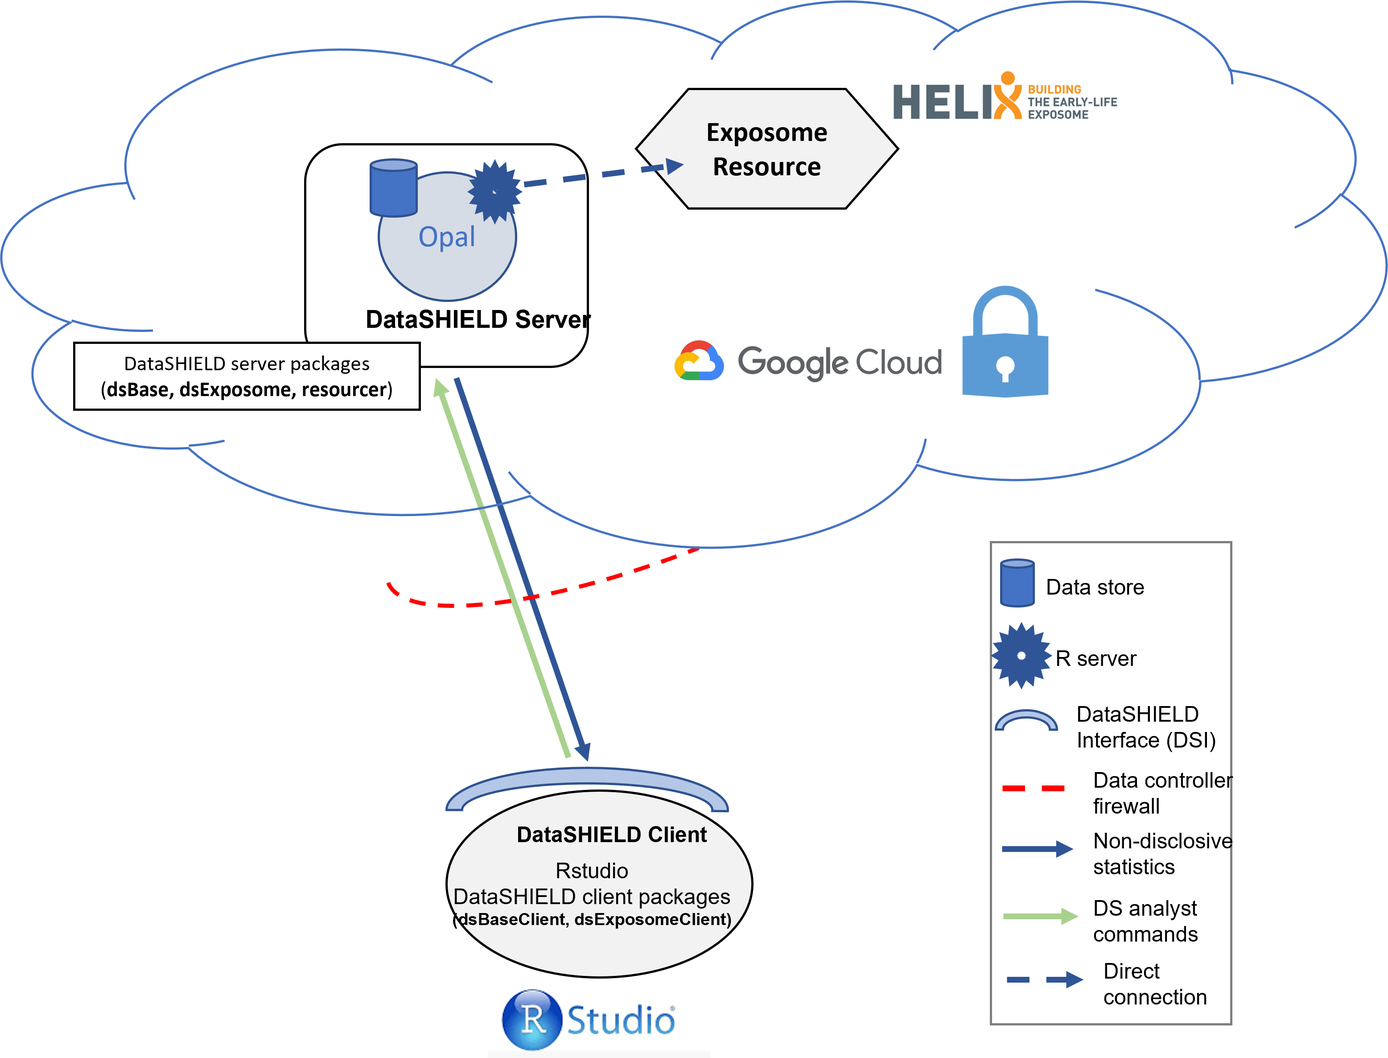
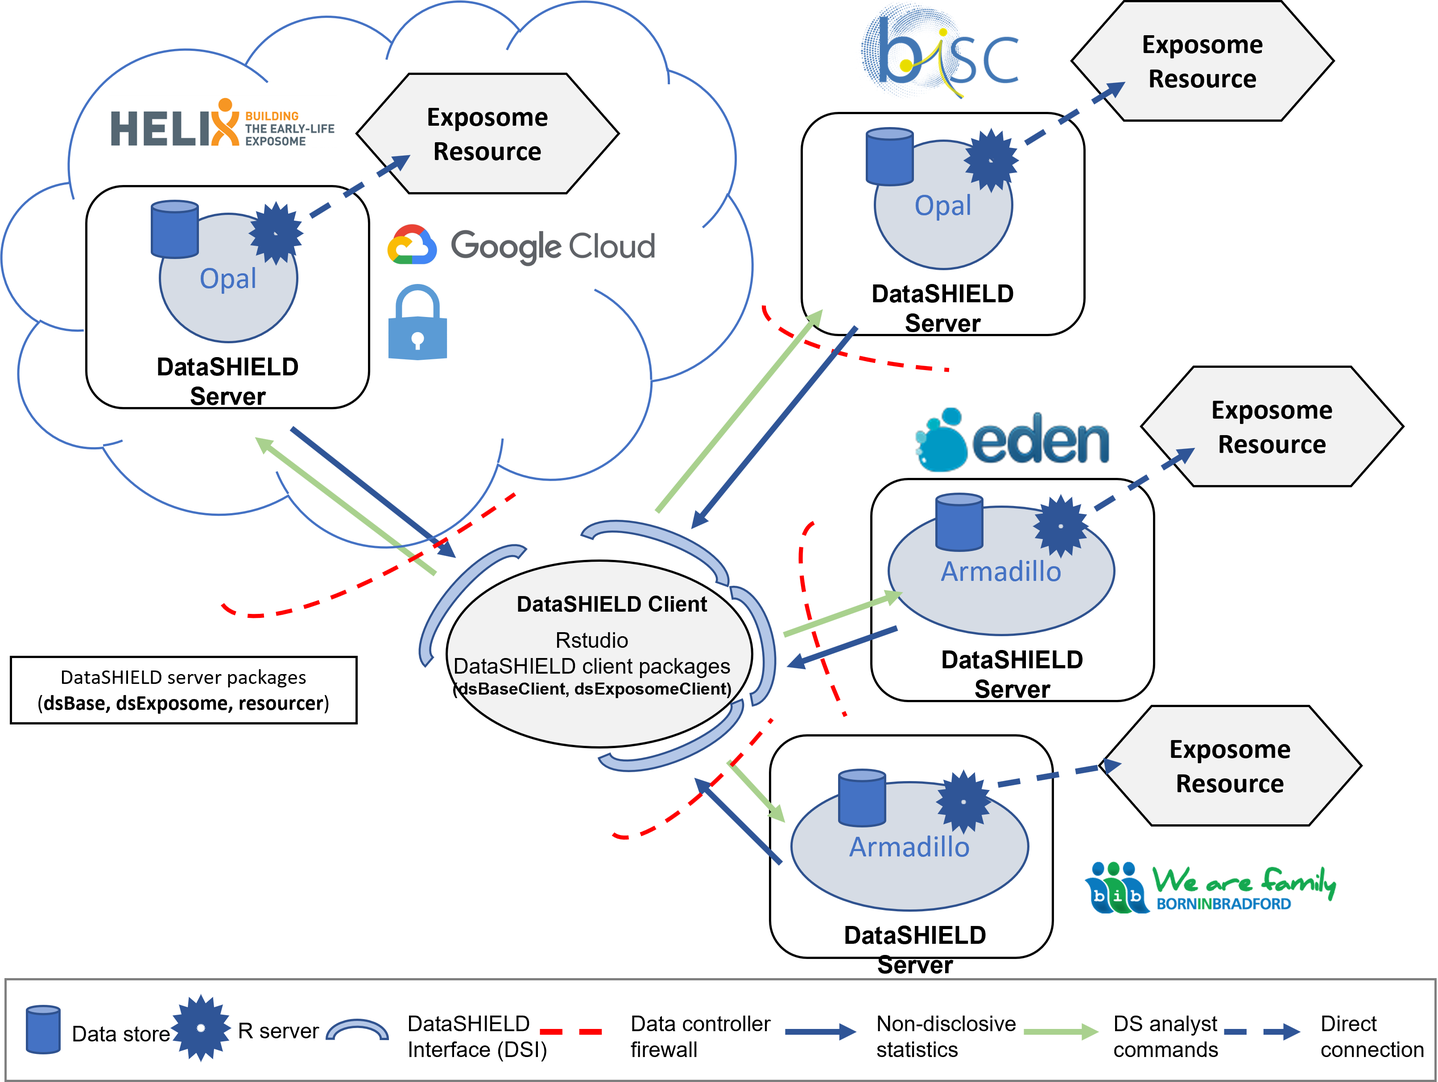
docs: new figure

diff --git a/docs/index.html b/docs/index.html
@@ -110,7 +110,8 @@ code span.wa { color: #60a0b0; font-weight: bold; font-style: italic; } /* Warni
     <h2 id="toc-title">Table of contents</h2>
    
   <ul>
-  <li><a href="#meet-google-cloud" id="toc-meet-google-cloud" class="nav-link active" data-scroll-target="#meet-google-cloud">Meet Google Cloud</a></li>
+  <li><a href="#computing-issues-when-using-datashield-in-large-consortia" id="toc-computing-issues-when-using-datashield-in-large-consortia" class="nav-link active" data-scroll-target="#computing-issues-when-using-datashield-in-large-consortia">Computing issues when using DataSHIELD in large consortia</a></li>
+  <li><a href="#meet-google-cloud" id="toc-meet-google-cloud" class="nav-link" data-scroll-target="#meet-google-cloud">Meet Google Cloud</a></li>
   <li><a href="#infrastructure" id="toc-infrastructure" class="nav-link" data-scroll-target="#infrastructure">Infrastructure</a></li>
   <li><a href="#exposome-analysis" id="toc-exposome-analysis" class="nav-link" data-scroll-target="#exposome-analysis">Exposome analysis</a>
   <ul class="collapse">
@@ -161,6 +162,25 @@ code span.wa { color: #60a0b0; font-weight: bold; font-style: italic; } /* Warni
 
 </header>
 
+<section id="computing-issues-when-using-datashield-in-large-consortia" class="level2">
+<h2 class="anchored" data-anchor-id="computing-issues-when-using-datashield-in-large-consortia">Computing issues when using DataSHIELD in large consortia</h2>
+<p>DataSHIELD is a technical solution for analyzing sensitive or confidential data in a federated manner, where data remains in the control of the original data holders and is not centralized or shared. One of the main problems with using DataSHIELD in large projects is the limited computing capacities of the individual data holders. Since the data is not centralized, the analysis must be performed on each site separately and then non-disclosive results are combined. This can lead to longer analysis times and increased computational burden on the individual sites, which may not have the same level of computing resources. Additionally, the data holders may have different technical capabilities, which can make it difficult to standardize the analysis across sites and ensure that the results are comparable. Furthermore, the security and privacy concerns around sensitive data can make it difficult to share data across sites, which can limit the ability to perform advanced or complex analysis.</p>
+<p>In this report we provide a possible solution using Google Cloud which is a suite of cloud computing services offered by Google that provides a variety of tools and resources for businesses and organizations. The services include infrastructure as a service (IaaS), platform as a service (PaaS), and software as a service (SaaS) offerings. The IaaS component of Google Cloud, called Google Compute Engine, allows users to rent virtual machines on which to run their own applications.</p>
+<p>Google Cloud also provides a variety of security and compliance features to help protect user’s data and applications which is one of the main concerns of researchers for using this solution. Importantly, Google Cloud is compliant with the General Data Protection Regulation (GDPR) and takes a number of steps and features to ensure the security of user data.These include:</p>
+<pre><code> - Data processing agreements (DPAs) that outline how Google Cloud processes customer data in compliance with GDPR
+ - Data protection impact assessments (DPIAs) that help customers identify and mitigate data protection risks
+ - Tools for managing user consent and data subject rights, such as the ability to delete or export personal data
+ - Transparency reports that provide information on data requests from government and other third parties.</code></pre>
+<p>In terms of security, Google Cloud has a number of measures in place to protect user data. These include:</p>
+<pre><code> - Encryption of data in transit and at rest
+ - Regular security assessments and penetration testing to identify and address vulnerabilities
+ - Access controls and authentication to ensure that only authorized users can access data
+ - Network security to protect against external threats
+ - A dedicated security team that monitors for and responds to potential security incidents.
+ - Google Cloud is also SOC2, ISO 27001, and PCI DSS certified, which are internationally recognized standards for information security management. Furthermore, it also provides a variety of tools and services to help customers manage their own security, such as security key management service, Cloud Security Command Center, and Cloud Identity-Aware Proxy.</code></pre>
+<p>More details about Google Cloud Compliance (also specific for countries) can be found <a href="https://cloud.google.com/security/compliance">here</a>.</p>
+<p>All the above mentioned features make possible to evaluate the possibility of using Google Cloud within <a href="https://athleteproject.eu/">ATHLETE project</a> for some cohorts to overcome their existing computing problems. In order to illustrate how we can set up ATHLETE’s infrastructure, next we describe an infrastructure we set up using data from <a href="http://www.projecthelix.eu/es">HELIX project</a> in which each cohort was consider as a different cohort.</p>
+</section>
 <section id="meet-google-cloud" class="level2">
 <h2 class="anchored" data-anchor-id="meet-google-cloud">Meet Google Cloud</h2>
 <p><a href="cloud.google.com">Google Cloud</a> is a cloud-based computing platform that offers a wide variety of services. For this demonstration, we have spined-up a simple <code>Compute Engine</code> with <code>debian-11-bullseye-v20221206</code> and <code>docker 20.10.22</code>.</p>
@@ -182,47 +202,47 @@ code span.wa { color: #60a0b0; font-weight: bold; font-style: italic; } /* Warni
 <p>The first step is to login to the server. You can see that we are connecting to a fixed IP (<code>35.219.173.160</code>). It is good to remark that it is <strong>fixed</strong>, so that if we try to login after two months the address will still work, typically we are assigned dynamic IPs that change over time. Google Cloud is able to provide fixed IPs with just the click of a button, making it easier for the IT departments to provide a DNS (i.e.&nbsp;to be able to use <code>opal.isglobal.org</code> instead of an IP).</p>
 <p>We have created a test user with DataSHIELD access to the server.</p>
 <div class="cell" data-hash="dsexposome-demo_cache/html/unnamed-chunk-1_68f6308a660549c5a275ce664728512d">
-<div class="sourceCode cell-code" id="cb1"><pre class="sourceCode r code-with-copy"><code class="sourceCode r"><span id="cb1-1"><a href="#cb1-1" aria-hidden="true" tabindex="-1"></a><span class="fu">require</span>(<span class="st">'DSI'</span>)</span>
-<span id="cb1-2"><a href="#cb1-2" aria-hidden="true" tabindex="-1"></a><span class="fu">require</span>(<span class="st">'DSOpal'</span>)</span>
-<span id="cb1-3"><a href="#cb1-3" aria-hidden="true" tabindex="-1"></a><span class="fu">require</span>(<span class="st">'dsBaseClient'</span>)</span>
-<span id="cb1-4"><a href="#cb1-4" aria-hidden="true" tabindex="-1"></a><span class="fu">require</span>(<span class="st">'dsExposomeClient'</span>)</span>
-<span id="cb1-5"><a href="#cb1-5" aria-hidden="true" tabindex="-1"></a></span>
-<span id="cb1-6"><a href="#cb1-6" aria-hidden="true" tabindex="-1"></a>user <span class="ot">&lt;-</span> <span class="st">"test"</span></span>
-<span id="cb1-7"><a href="#cb1-7" aria-hidden="true" tabindex="-1"></a>pass <span class="ot">&lt;-</span> <span class="st">"Testtest1!"</span></span>
-<span id="cb1-8"><a href="#cb1-8" aria-hidden="true" tabindex="-1"></a></span>
-<span id="cb1-9"><a href="#cb1-9" aria-hidden="true" tabindex="-1"></a><span class="fu">library</span>(httr);<span class="fu">set_config</span>(<span class="fu">config</span>(<span class="at">ssl_verifypeer =</span> 0L))</span>
-<span id="cb1-10"><a href="#cb1-10" aria-hidden="true" tabindex="-1"></a></span>
-<span id="cb1-11"><a href="#cb1-11" aria-hidden="true" tabindex="-1"></a>builder <span class="ot">&lt;-</span> DSI<span class="sc">::</span><span class="fu">newDSLoginBuilder</span>()</span>
-<span id="cb1-12"><a href="#cb1-12" aria-hidden="true" tabindex="-1"></a>builder<span class="sc">$</span><span class="fu">append</span>(<span class="at">server =</span> <span class="st">'server1'</span>, </span>
-<span id="cb1-13"><a href="#cb1-13" aria-hidden="true" tabindex="-1"></a>               <span class="at">url =</span> <span class="st">"https://35.219.173.160/repo"</span>,</span>
-<span id="cb1-14"><a href="#cb1-14" aria-hidden="true" tabindex="-1"></a>               <span class="at">user =</span> user, </span>
-<span id="cb1-15"><a href="#cb1-15" aria-hidden="true" tabindex="-1"></a>               <span class="at">password =</span> pass, </span>
-<span id="cb1-16"><a href="#cb1-16" aria-hidden="true" tabindex="-1"></a>               <span class="at">profile =</span> <span class="st">"default"</span>)</span>
-<span id="cb1-17"><a href="#cb1-17" aria-hidden="true" tabindex="-1"></a>logindata <span class="ot">&lt;-</span> builder<span class="sc">$</span><span class="fu">build</span>()</span>
-<span id="cb1-18"><a href="#cb1-18" aria-hidden="true" tabindex="-1"></a>conns <span class="ot">&lt;-</span> DSI<span class="sc">::</span><span class="fu">datashield.login</span>(<span class="at">logins =</span> logindata, <span class="at">assign =</span> F)</span></code><button title="Copy to Clipboard" class="code-copy-button"><i class="bi"></i></button></pre></div>
+<div class="sourceCode cell-code" id="cb3"><pre class="sourceCode r code-with-copy"><code class="sourceCode r"><span id="cb3-1"><a href="#cb3-1" aria-hidden="true" tabindex="-1"></a><span class="fu">require</span>(<span class="st">'DSI'</span>)</span>
+<span id="cb3-2"><a href="#cb3-2" aria-hidden="true" tabindex="-1"></a><span class="fu">require</span>(<span class="st">'DSOpal'</span>)</span>
+<span id="cb3-3"><a href="#cb3-3" aria-hidden="true" tabindex="-1"></a><span class="fu">require</span>(<span class="st">'dsBaseClient'</span>)</span>
+<span id="cb3-4"><a href="#cb3-4" aria-hidden="true" tabindex="-1"></a><span class="fu">require</span>(<span class="st">'dsExposomeClient'</span>)</span>
+<span id="cb3-5"><a href="#cb3-5" aria-hidden="true" tabindex="-1"></a></span>
+<span id="cb3-6"><a href="#cb3-6" aria-hidden="true" tabindex="-1"></a>user <span class="ot">&lt;-</span> <span class="st">"test"</span></span>
+<span id="cb3-7"><a href="#cb3-7" aria-hidden="true" tabindex="-1"></a>pass <span class="ot">&lt;-</span> <span class="st">"Testtest1!"</span></span>
+<span id="cb3-8"><a href="#cb3-8" aria-hidden="true" tabindex="-1"></a></span>
+<span id="cb3-9"><a href="#cb3-9" aria-hidden="true" tabindex="-1"></a><span class="fu">library</span>(httr);<span class="fu">set_config</span>(<span class="fu">config</span>(<span class="at">ssl_verifypeer =</span> 0L))</span>
+<span id="cb3-10"><a href="#cb3-10" aria-hidden="true" tabindex="-1"></a></span>
+<span id="cb3-11"><a href="#cb3-11" aria-hidden="true" tabindex="-1"></a>builder <span class="ot">&lt;-</span> DSI<span class="sc">::</span><span class="fu">newDSLoginBuilder</span>()</span>
+<span id="cb3-12"><a href="#cb3-12" aria-hidden="true" tabindex="-1"></a>builder<span class="sc">$</span><span class="fu">append</span>(<span class="at">server =</span> <span class="st">'server1'</span>, </span>
+<span id="cb3-13"><a href="#cb3-13" aria-hidden="true" tabindex="-1"></a>               <span class="at">url =</span> <span class="st">"https://35.219.173.160/repo"</span>,</span>
+<span id="cb3-14"><a href="#cb3-14" aria-hidden="true" tabindex="-1"></a>               <span class="at">user =</span> user, </span>
+<span id="cb3-15"><a href="#cb3-15" aria-hidden="true" tabindex="-1"></a>               <span class="at">password =</span> pass, </span>
+<span id="cb3-16"><a href="#cb3-16" aria-hidden="true" tabindex="-1"></a>               <span class="at">profile =</span> <span class="st">"default"</span>)</span>
+<span id="cb3-17"><a href="#cb3-17" aria-hidden="true" tabindex="-1"></a>logindata <span class="ot">&lt;-</span> builder<span class="sc">$</span><span class="fu">build</span>()</span>
+<span id="cb3-18"><a href="#cb3-18" aria-hidden="true" tabindex="-1"></a>conns <span class="ot">&lt;-</span> DSI<span class="sc">::</span><span class="fu">datashield.login</span>(<span class="at">logins =</span> logindata, <span class="at">assign =</span> F)</span></code><button title="Copy to Clipboard" class="code-copy-button"><i class="bi"></i></button></pre></div>
 </div>
 </section>
 <section id="assigning-the-resource" class="level3">
 <h3 class="anchored" data-anchor-id="assigning-the-resource">Assigning the resource</h3>
-<p>Now that we have successfully connected to the server, we just have to specify which data to load in order to analize it.</p>
+<p>Now that we have successfully connected to the server, we just have to specify which data to load in order to analyze it.</p>
 <div class="cell" data-hash="dsexposome-demo_cache/html/unnamed-chunk-2_23205d2bb5b0bde6a170fca3975519a8">
-<div class="sourceCode cell-code" id="cb2"><pre class="sourceCode r code-with-copy"><code class="sourceCode r"><span id="cb2-1"><a href="#cb2-1" aria-hidden="true" tabindex="-1"></a><span class="fu">datashield.assign.resource</span>(</span>
-<span id="cb2-2"><a href="#cb2-2" aria-hidden="true" tabindex="-1"></a>  conns, </span>
-<span id="cb2-3"><a href="#cb2-3" aria-hidden="true" tabindex="-1"></a>  <span class="at">symbol =</span> <span class="st">'exposome_resource'</span>, </span>
-<span id="cb2-4"><a href="#cb2-4" aria-hidden="true" tabindex="-1"></a>  <span class="at">resource =</span> <span class="fu">list</span>(<span class="at">server1 =</span> <span class="st">'EXPOSOME.exposomeSet'</span>)</span>
-<span id="cb2-5"><a href="#cb2-5" aria-hidden="true" tabindex="-1"></a>)</span>
-<span id="cb2-6"><a href="#cb2-6" aria-hidden="true" tabindex="-1"></a><span class="fu">ds.class</span>(<span class="st">"exposome_resource"</span>)</span></code><button title="Copy to Clipboard" class="code-copy-button"><i class="bi"></i></button></pre></div>
+<div class="sourceCode cell-code" id="cb4"><pre class="sourceCode r code-with-copy"><code class="sourceCode r"><span id="cb4-1"><a href="#cb4-1" aria-hidden="true" tabindex="-1"></a><span class="fu">datashield.assign.resource</span>(</span>
+<span id="cb4-2"><a href="#cb4-2" aria-hidden="true" tabindex="-1"></a>  conns, </span>
+<span id="cb4-3"><a href="#cb4-3" aria-hidden="true" tabindex="-1"></a>  <span class="at">symbol =</span> <span class="st">'exposome_resource'</span>, </span>
+<span id="cb4-4"><a href="#cb4-4" aria-hidden="true" tabindex="-1"></a>  <span class="at">resource =</span> <span class="fu">list</span>(<span class="at">server1 =</span> <span class="st">'EXPOSOME.exposomeSet'</span>)</span>
+<span id="cb4-5"><a href="#cb4-5" aria-hidden="true" tabindex="-1"></a>)</span>
+<span id="cb4-6"><a href="#cb4-6" aria-hidden="true" tabindex="-1"></a><span class="fu">ds.class</span>(<span class="st">"exposome_resource"</span>)</span></code><button title="Copy to Clipboard" class="code-copy-button"><i class="bi"></i></button></pre></div>
 <div class="cell-output cell-output-stdout">
 <pre><code>$server1
 [1] "RDataFileResourceClient" "FileResourceClient"     
 [3] "ResourceClient"          "R6"                     </code></pre>
 </div>
-<div class="sourceCode cell-code" id="cb4"><pre class="sourceCode r code-with-copy"><code class="sourceCode r"><span id="cb4-1"><a href="#cb4-1" aria-hidden="true" tabindex="-1"></a><span class="fu">datashield.assign.expr</span>(</span>
-<span id="cb4-2"><a href="#cb4-2" aria-hidden="true" tabindex="-1"></a>  conns, </span>
-<span id="cb4-3"><a href="#cb4-3" aria-hidden="true" tabindex="-1"></a>  <span class="at">symbol =</span> <span class="st">"exposome_resource"</span>, </span>
-<span id="cb4-4"><a href="#cb4-4" aria-hidden="true" tabindex="-1"></a>  <span class="at">expr =</span> <span class="fu">quote</span>(<span class="fu">as.resource.object</span>(exposome_resource))</span>
-<span id="cb4-5"><a href="#cb4-5" aria-hidden="true" tabindex="-1"></a>)</span>
-<span id="cb4-6"><a href="#cb4-6" aria-hidden="true" tabindex="-1"></a><span class="fu">ds.class</span>(<span class="st">"exposome_resource"</span>)</span></code><button title="Copy to Clipboard" class="code-copy-button"><i class="bi"></i></button></pre></div>
+<div class="sourceCode cell-code" id="cb6"><pre class="sourceCode r code-with-copy"><code class="sourceCode r"><span id="cb6-1"><a href="#cb6-1" aria-hidden="true" tabindex="-1"></a><span class="fu">datashield.assign.expr</span>(</span>
+<span id="cb6-2"><a href="#cb6-2" aria-hidden="true" tabindex="-1"></a>  conns, </span>
+<span id="cb6-3"><a href="#cb6-3" aria-hidden="true" tabindex="-1"></a>  <span class="at">symbol =</span> <span class="st">"exposome_resource"</span>, </span>
+<span id="cb6-4"><a href="#cb6-4" aria-hidden="true" tabindex="-1"></a>  <span class="at">expr =</span> <span class="fu">quote</span>(<span class="fu">as.resource.object</span>(exposome_resource))</span>
+<span id="cb6-5"><a href="#cb6-5" aria-hidden="true" tabindex="-1"></a>)</span>
+<span id="cb6-6"><a href="#cb6-6" aria-hidden="true" tabindex="-1"></a><span class="fu">ds.class</span>(<span class="st">"exposome_resource"</span>)</span></code><button title="Copy to Clipboard" class="code-copy-button"><i class="bi"></i></button></pre></div>
 <div class="cell-output cell-output-stdout">
 <pre><code>$server1
 [1] "ExposomeSet"
@@ -235,7 +255,7 @@ attr(,"package")
 <h3 class="anchored" data-anchor-id="working-with-the-data">Working with the data</h3>
 <p>Finally, we are ready to start analyzing. Here we can see the summary of one variable of the Exposome.</p>
 <div class="cell" data-hash="dsexposome-demo_cache/html/unnamed-chunk-3_242432b0c12753ee903fe628678bca82">
-<div class="sourceCode cell-code" id="cb6"><pre class="sourceCode r code-with-copy"><code class="sourceCode r"><span id="cb6-1"><a href="#cb6-1" aria-hidden="true" tabindex="-1"></a><span class="fu">ds.exposome_summary</span>(<span class="st">"exposome_resource"</span>, <span class="st">"AbsPM25"</span>)</span></code><button title="Copy to Clipboard" class="code-copy-button"><i class="bi"></i></button></pre></div>
+<div class="sourceCode cell-code" id="cb8"><pre class="sourceCode r code-with-copy"><code class="sourceCode r"><span id="cb8-1"><a href="#cb8-1" aria-hidden="true" tabindex="-1"></a><span class="fu">ds.exposome_summary</span>(<span class="st">"exposome_resource"</span>, <span class="st">"AbsPM25"</span>)</span></code><button title="Copy to Clipboard" class="code-copy-button"><i class="bi"></i></button></pre></div>
 <div class="cell-output cell-output-stdout">
 <pre><code>$server1
 $server1$class
@@ -251,8 +271,8 @@ $server1$`quantiles &amp; mean`
 </div>
 <p>Now, we will see the amount of missings on the phenotype data.</p>
 <div class="cell" data-hash="dsexposome-demo_cache/html/unnamed-chunk-4_6bc7656a1847e2d10a0c38cf467daa1a">
-<div class="sourceCode cell-code" id="cb8"><pre class="sourceCode r code-with-copy"><code class="sourceCode r"><span id="cb8-1"><a href="#cb8-1" aria-hidden="true" tabindex="-1"></a>phenos <span class="ot">&lt;-</span> <span class="fu">ds.tableMissings</span>(<span class="st">"exposome_resource"</span>, <span class="at">set =</span> <span class="st">"phenotypes"</span>)</span>
-<span id="cb8-2"><a href="#cb8-2" aria-hidden="true" tabindex="-1"></a><span class="fu">ds.plotMissings</span>(phenos)</span></code><button title="Copy to Clipboard" class="code-copy-button"><i class="bi"></i></button></pre></div>
+<div class="sourceCode cell-code" id="cb10"><pre class="sourceCode r code-with-copy"><code class="sourceCode r"><span id="cb10-1"><a href="#cb10-1" aria-hidden="true" tabindex="-1"></a>phenos <span class="ot">&lt;-</span> <span class="fu">ds.tableMissings</span>(<span class="st">"exposome_resource"</span>, <span class="at">set =</span> <span class="st">"phenotypes"</span>)</span>
+<span id="cb10-2"><a href="#cb10-2" aria-hidden="true" tabindex="-1"></a><span class="fu">ds.plotMissings</span>(phenos)</span></code><button title="Copy to Clipboard" class="code-copy-button"><i class="bi"></i></button></pre></div>
 <div class="cell-output cell-output-stdout">
 <pre><code>$pooled</code></pre>
 </div>
@@ -262,15 +282,15 @@ $server1$`quantiles &amp; mean`
 </div>
 <p>And finally we will perform a simple ExWAS analysis.</p>
 <div class="cell" data-hash="dsexposome-demo_cache/html/unnamed-chunk-5_001366709be8c1f9c814c7fa842787e9">
-<div class="sourceCode cell-code" id="cb10"><pre class="sourceCode r code-with-copy"><code class="sourceCode r"><span id="cb10-1"><a href="#cb10-1" aria-hidden="true" tabindex="-1"></a>exwas_results <span class="ot">&lt;-</span> <span class="fu">ds.exwas</span>(</span>
-<span id="cb10-2"><a href="#cb10-2" aria-hidden="true" tabindex="-1"></a>  <span class="st">"blood_pre ~ sex"</span>, </span>
-<span id="cb10-3"><a href="#cb10-3" aria-hidden="true" tabindex="-1"></a>  <span class="at">Set =</span> <span class="st">"exposome_resource"</span>, </span>
-<span id="cb10-4"><a href="#cb10-4" aria-hidden="true" tabindex="-1"></a>  <span class="at">family =</span> <span class="st">"gaussian"</span>,</span>
-<span id="cb10-5"><a href="#cb10-5" aria-hidden="true" tabindex="-1"></a>  <span class="at">type =</span> <span class="st">"meta"</span></span>
-<span id="cb10-6"><a href="#cb10-6" aria-hidden="true" tabindex="-1"></a>)</span></code><button title="Copy to Clipboard" class="code-copy-button"><i class="bi"></i></button></pre></div>
+<div class="sourceCode cell-code" id="cb12"><pre class="sourceCode r code-with-copy"><code class="sourceCode r"><span id="cb12-1"><a href="#cb12-1" aria-hidden="true" tabindex="-1"></a>exwas_results <span class="ot">&lt;-</span> <span class="fu">ds.exwas</span>(</span>
+<span id="cb12-2"><a href="#cb12-2" aria-hidden="true" tabindex="-1"></a>  <span class="st">"blood_pre ~ sex"</span>, </span>
+<span id="cb12-3"><a href="#cb12-3" aria-hidden="true" tabindex="-1"></a>  <span class="at">Set =</span> <span class="st">"exposome_resource"</span>, </span>
+<span id="cb12-4"><a href="#cb12-4" aria-hidden="true" tabindex="-1"></a>  <span class="at">family =</span> <span class="st">"gaussian"</span>,</span>
+<span id="cb12-5"><a href="#cb12-5" aria-hidden="true" tabindex="-1"></a>  <span class="at">type =</span> <span class="st">"meta"</span></span>
+<span id="cb12-6"><a href="#cb12-6" aria-hidden="true" tabindex="-1"></a>)</span></code><button title="Copy to Clipboard" class="code-copy-button"><i class="bi"></i></button></pre></div>
 </div>
 <div class="cell" data-hash="dsexposome-demo_cache/html/unnamed-chunk-6_362d7cce7698234022d8b1d6e3a5ff11">
-<div class="sourceCode cell-code" id="cb11"><pre class="sourceCode r code-with-copy"><code class="sourceCode r"><span id="cb11-1"><a href="#cb11-1" aria-hidden="true" tabindex="-1"></a><span class="fu">ds.plotExwas</span>(exwas_results, <span class="at">type=</span><span class="st">"manhattan"</span>)</span></code><button title="Copy to Clipboard" class="code-copy-button"><i class="bi"></i></button></pre></div>
+<div class="sourceCode cell-code" id="cb13"><pre class="sourceCode r code-with-copy"><code class="sourceCode r"><span id="cb13-1"><a href="#cb13-1" aria-hidden="true" tabindex="-1"></a><span class="fu">ds.plotExwas</span>(exwas_results, <span class="at">type=</span><span class="st">"manhattan"</span>)</span></code><button title="Copy to Clipboard" class="code-copy-button"><i class="bi"></i></button></pre></div>
 <div class="cell-output cell-output-stdout">
 <pre><code>$server1</code></pre>
 </div>
@@ -280,7 +300,7 @@ $server1$`quantiles &amp; mean`
 </div>
 <p>When we are finished doing analysis, it is a good practice to logout of the server, that way the computational resources will be released for other researchers to use.</p>
 <div class="cell" data-hash="dsexposome-demo_cache/html/unnamed-chunk-7_8c8159f8ca7db652e5e102e1ef98f62a">
-<div class="sourceCode cell-code" id="cb13"><pre class="sourceCode r code-with-copy"><code class="sourceCode r"><span id="cb13-1"><a href="#cb13-1" aria-hidden="true" tabindex="-1"></a><span class="fu">datashield.logout</span>(conns)</span></code><button title="Copy to Clipboard" class="code-copy-button"><i class="bi"></i></button></pre></div>
+<div class="sourceCode cell-code" id="cb15"><pre class="sourceCode r code-with-copy"><code class="sourceCode r"><span id="cb15-1"><a href="#cb15-1" aria-hidden="true" tabindex="-1"></a><span class="fu">datashield.logout</span>(conns)</span></code><button title="Copy to Clipboard" class="code-copy-button"><i class="bi"></i></button></pre></div>
 </div>
 </section>
 </section>
